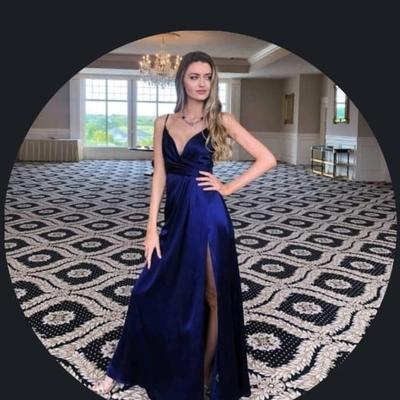
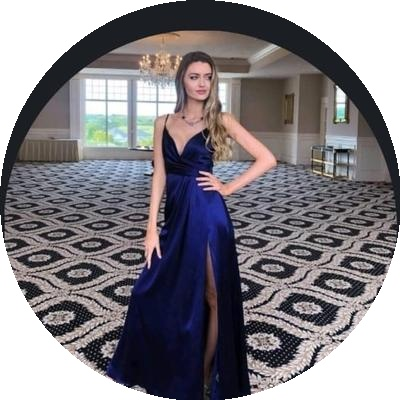
Manifesto page, team moved, fixed circular photos, UX reorganization

diff --git a/manifesto.html b/manifesto.html
@@ -1,0 +1,106 @@
+<!DOCTYPE html>
+<html lang="en" dir="ltr">
+<head>
+<meta charset="UTF-8">
+<meta name="viewport" content="width=device-width, initial-scale=1.0">
+<title data-i18n-title="meta.maniTitle">Manifesto — Surgronic</title>
+<meta name="description" content="Why Surgronic exists: bringing world-class surgical instruments to the surgeons of the Middle East and North Africa.">
+<link rel="icon" href="assets/favicon.svg" type="image/svg+xml">
+<link rel="stylesheet" href="styles.css?v=manif002">
+</head>
+<body>
+<div id="siteHeader"></div>
+
+<main>
+<!-- ============ MANIFESTO HERO ============ -->
+<section class="mani-hero">
+  <div class="wrap">
+    <span class="eyebrow rv" data-i18n="mani.eyebrow">Our manifesto</span>
+    <h1 class="rv" data-i18n="mani.title">Every surgeon deserves the right instrument.</h1>
+    <p class="mani-lede rv" data-i18n="mani.lede">No matter where they operate — Riyadh or Casablanca, Cairo or Istanbul.</p>
+  </div>
+</section>
+
+<!-- ============ MANIFESTO BODY ============ -->
+<section class="mani-body">
+  <div class="wrap mani-narrow">
+    <div class="rv">
+      <h2 data-i18n="mani.s1t">The problem we saw</h2>
+      <p data-i18n="mani.s1d1">Across the Middle East and North Africa, talented surgeons work with one hand tied behind their back. Not for lack of skill — for lack of access. The precision instruments that European and American surgeons take for granted are hard to find, slow to arrive, and priced as if the region doesn't matter.</p>
+      <p data-i18n="mani.s1d2">Procurement departments order from catalogs. Distributors add their margins. And the surgeon — the person whose hands actually hold the instrument — is the last to be consulted and the first to compromise.</p>
+    </div>
+    <div class="rv">
+      <h2 data-i18n="mani.s2t">What we're building</h2>
+      <p data-i18n="mani.s2d1">Surgronic exists to put the surgeon back at the center. We source precision surgical instruments directly from manufacturers — in Turkey, Germany, China — and deliver them to individual surgeons and institutions across MENA, without the distributor markup and without the wait.</p>
+      <p data-i18n="mani.s2d2">Name the instrument. We'll find it. That's not a slogan — it's the entire business model. You tell us what you need, we source it to your specification, inspect it, photograph it, and ship it only after you've approved it.</p>
+    </div>
+    <div class="rv">
+      <h2 data-i18n="mani.s3t">Why the Arab world</h2>
+      <p data-i18n="mani.s3d1">Because this is where we come from, and this is where the gap is widest. MENA surgeons perform world-class procedures with second-tier supply chains. That isn't just inefficient — it's unjust.</p>
+      <p data-i18n="mani.s3d2">We started in Istanbul, at the crossroads of Europe and the Middle East, specifically to serve this region. Our team speaks your language — literally, in Arabic, French, Turkish, and English. Our pricing adapts to your currency. Our WhatsApp line answers within one business day.</p>
+    </div>
+    <div class="rv">
+      <h2 data-i18n="mani.s4t">How we work</h2>
+      <p data-i18n="mani.s4d1">Surgeon first, always. We'd rather lose a sale than recommend the wrong instrument. Every order starts with your specification, not our catalog. Inspection photos before dispatch. Written confirmation before commitment. No middlemen between you and the person sourcing your tools.</p>
+      <p data-i18n="mani.s4d2">We're not a marketplace. We're the partner who picks up the phone.</p>
+    </div>
+  </div>
+</section>
+
+<!-- ============ TEAM (moved from homepage) ============ -->
+<section class="team" id="team">
+  <div class="wrap">
+    <span class="eyebrow rv" data-i18n="team.eyebrow">The team</span>
+    <h2 class="sec-title rv" data-i18n="team.title">People, not a portal.</h2>
+    <p class="sec-sub rv" data-i18n="team.sub">The people you'll actually talk to when you order.</p>
+    <div class="team-grid">
+      <div class="team-card rv">
+        <img src="assets/team-yusuf.jpg" alt="Yusuf Mohamed" loading="lazy">
+        <h3><a href="https://www.linkedin.com/in/yusufmoha/" target="_blank" rel="noopener" class="team-link">Yusuf Mohamed</a></h3>
+        <p class="team-role" data-i18n="team.r1">Co-Founder</p>
+        <p class="team-bio" data-i18n="team.b1">Leads sourcing and supplier partnerships across Turkey, China, and the GCC.</p>
+      </div>
+      <div class="team-card rv">
+        <img src="assets/team-younesse.jpg" alt="Younesse Bouziani" loading="lazy">
+        <h3><a href="https://www.linkedin.com/in/younesse-bouziani-76111157" target="_blank" rel="noopener" class="team-link">Younesse Bouziani</a></h3>
+        <p class="team-role" data-i18n="team.r2">Co-Founder</p>
+        <p class="team-bio" data-i18n="team.b2">Drives strategy and platform development.</p>
+      </div>
+      <div class="team-card rv">
+        <img src="assets/team-dounia.jpg" alt="Dounia Filali" loading="lazy">
+        <h3><a href="https://www.linkedin.com/in/dounia-filali-9a16a3207" target="_blank" rel="noopener" class="team-link">Dounia Filali</a></h3>
+        <p class="team-role" data-i18n="team.r3">Commercial Manager — North Africa & Europe</p>
+        <p class="team-bio" data-i18n="team.b3">Your contact for Morocco, Algeria, Tunisia, and European markets.</p>
+      </div>
+      <div class="team-card rv">
+        <img src="assets/team-khalid.jpg" alt="Khalid Al-Harbi" loading="lazy">
+        <h3><a href="https://www.linkedin.com/in/khalid-al-harbi-20373a313" target="_blank" rel="noopener" class="team-link">Khalid Al-Harbi</a></h3>
+        <p class="team-role" data-i18n="team.r4">Commercial Manager — Middle East & Asia</p>
+        <p class="team-bio" data-i18n="team.b4">Your contact for Saudi Arabia, UAE, Gulf states, and Asian markets.</p>
+      </div>
+    </div>
+  </div>
+</section>
+
+<!-- ============ CTA ============ -->
+<section class="mani-cta">
+  <div class="wrap">
+    <h2 class="rv" data-i18n="mani.ctaT">Work with people who answer.</h2>
+    <p class="rv"><a class="btn btn-primary" href="quote.html" data-i18n="mani.ctaB">Request a quote</a></p>
+  </div>
+</section>
+</main>
+
+<div id="siteFooter"></div>
+<script src="assets/currency.js"></script>
+<script src="app.js?v=manif002"></script>
+<script>
+document.addEventListener("DOMContentLoaded", function(){
+  document.getElementById('siteHeader').innerHTML = SG.siteHeaderHTML('');
+  document.getElementById('siteFooter').innerHTML = SG.footerHTML();
+  SG.applyI18n();
+  if(window.SurCcy){ SurCcy.init(function(){}); }
+});
+</script>
+</body>
+</html>

diff --git a/app.js b/app.js
@@ -357,6 +357,27 @@ en: {
   "feat.errB": "Browse the catalogue",
   "nav.how": "How it works",
   "nav.why": "Why Surgronic",
+  "nav.manifesto": "Manifesto",
+  "meta.maniTitle": "Manifesto \u2014 Surgronic",
+  "mani.eyebrow": "Our manifesto",
+  "mani.title": "Every surgeon deserves the right instrument.",
+  "mani.lede": "No matter where they operate \u2014 Riyadh or Casablanca, Cairo or Istanbul.",
+  "mani.s1t": "The problem we saw",
+  "mani.s1d1": "Across the Middle East and North Africa, talented surgeons work with one hand tied behind their back. Not for lack of skill \u2014 for lack of access.",
+  "mani.s1d2": "Procurement departments order from catalogs. Distributors add their margins. And the surgeon is the last to be consulted and the first to compromise.",
+  "mani.s2t": "What we\u2019re building",
+  "mani.s2d1": "Surgronic exists to put the surgeon back at the center. We source precision instruments directly from manufacturers and deliver across MENA.",
+  "mani.s2d2": "Name the instrument. We\u2019ll find it. That\u2019s not a slogan \u2014 it\u2019s the entire business model.",
+  "mani.s3t": "Why the Arab world",
+  "mani.s3d1": "Because this is where we come from, and this is where the gap is widest. MENA surgeons perform world-class procedures with second-tier supply chains.",
+  "mani.s3d2": "We started in Istanbul to serve this region. Our team speaks your language \u2014 Arabic, French, Turkish, and English.",
+  "mani.s4t": "How we work",
+  "mani.s4d1": "Surgeon first, always. Written confirmation before commitment. No middlemen between you and the person sourcing your tools.",
+  "mani.s4d2": "We\u2019re not a marketplace. We\u2019re the partner who picks up the phone.",
+  "mani.ctaT": "Work with people who answer.",
+  "mani.ctaB": "Request a quote",
+  "home.teamT": "Meet the people behind Surgronic.",
+  "home.teamL": "Read our manifesto",
   "hero.scroll": "Scroll",
   "trust.title2": "Procurement, engineered.",
   "strip.1b": "1 business day",
@@ -722,6 +743,7 @@ fr: {
   "feat.errB": "Parcourir le catalogue",
   "nav.how": "Comment ça marche",
   "nav.why": "Pourquoi Surgronic",
+  "nav.manifesto": "Manifeste",
   "hero.scroll": "Défiler",
   "trust.title2": "L’approvisionnement, conçu comme une ingénierie.",
   "strip.1b": "1 jour ouvré",
@@ -1033,6 +1055,7 @@ ar: {
   "feat.errB": "تصفح الكتالوج",
   "nav.how": "كيف نعمل",
   "nav.why": "لماذا سورجرونيك",
+  "nav.manifesto": "البيان",
   "hero.scroll": "مرر",
   "trust.title2": "التوريد، مصمم كهندسة.",
   "strip.1b": "يوم عمل واحد",
@@ -1344,6 +1367,7 @@ tr: {
   "feat.errB": "Kataloğa göz atın",
   "nav.how": "Nasıl çalışır",
   "nav.why": "Neden Surgronic",
+  "nav.manifesto": "Manifesto",
   "hero.scroll": "Kaydırın",
   "trust.title2": "Satın alma, mühendislikle.",
   "strip.1b": "1 iş günü",
@@ -1622,6 +1646,7 @@ function siteHeaderHTML(active){
       '<a href="catalogue.html"'+(active==="catalog"?' class="active"':'')+' data-i18n="nav.catalog">'+t("nav.catalog")+'</a>'+
       '<a href="index.html#how" data-i18n="nav.how">'+t("nav.how")+'</a>'+
       '<a href="index.html#why" data-i18n="nav.why">'+t("nav.why")+'</a>'+
+      '<a href="manifesto.html" data-i18n="nav.manifesto">'+t("nav.manifesto")+'</a>'+
     '</nav>'+
     '<div class="header-actions">'+
       '<div class="lang-switch" role="group" aria-label="Language">'+
@@ -1642,6 +1667,7 @@ function siteHeaderHTML(active){
     '<a href="catalogue.html" data-i18n="nav.catalog">'+t("nav.catalog")+'</a>'+
     '<a href="index.html#how" data-i18n="nav.how">'+t("nav.how")+'</a>'+
     '<a href="index.html#why" data-i18n="nav.why">'+t("nav.why")+'</a>'+
+    '<a href="manifesto.html" data-i18n="nav.manifesto">'+t("nav.manifesto")+'</a>'+
     '<a href="quote.html" data-i18n="nav.quote">'+t("nav.quote")+'</a>'+
     '<div class="lang-switch mobile-lang" role="group" aria-label="Language">'+
       '<button data-lang="en"'+(lang==="en"?' class="on"':'')+'>EN</button>'+
@@ -1668,6 +1694,7 @@ function footerHTML(){
       '<div><h4 data-i18n="footer.company">'+t("footer.company")+'</h4><ul>'+
         '<li><a href="index.html#how" data-i18n="footer.how">'+t("footer.how")+'</a></li>'+
         '<li><a href="index.html#specialties" data-i18n="footer.specialties">'+t("footer.specialties")+'</a></li>'+
+        '<li><a href="manifesto.html" data-i18n="nav.manifesto">'+t("nav.manifesto")+'</a></li>'+
         '<li><a href="index.html#trust" data-i18n="footer.why">'+t("footer.why")+'</a></li>'+
       '</ul></div>'+
       '<div><h4 data-i18n="footer.contact">'+t("footer.contact")+'</h4><ul>'+

diff --git a/index.html b/index.html
@@ -12,11 +12,11 @@
 <link rel="preconnect" href="https://fonts.googleapis.com">
 <link rel="preconnect" href="https://fonts.gstatic.com" crossorigin>
 <link href="https://fonts.googleapis.com/css2?family=Inter:wght@400;500;600;700&family=Manrope:wght@600;700;800&display=swap" rel="stylesheet">
-<link rel="stylesheet" href="styles.css?v=team003">
+<link rel="stylesheet" href="styles.css?v=manif002">
 </head>
 <body>
 <script src="assets/currency.js"></script>
-<script src="app.js?v=promise001"></script>
+<script src="app.js?v=manif002"></script>
 <main>
 <!-- ============ HERO ============ -->
 <section class="hero">
@@ -231,38 +231,10 @@
   </div>
 </section>
 
-<!-- ============ TEAM ============ -->
-<section class="team" id="team">
+<!-- ============ TEAM TEASER ============ -->
+<section class="team-teaser">
   <div class="wrap">
-    <span class="eyebrow rv" data-i18n="team.eyebrow">The team</span>
-    <h2 class="sec-title rv" data-i18n="team.title">People, not a portal.</h2>
-    <p class="sec-sub rv" data-i18n="team.sub">The people you'll actually talk to when you order.</p>
-    <div class="team-grid">
-      <div class="team-card rv">
-        <img src="assets/team-yusuf.jpg" alt="Yusuf Mohamed" loading="lazy">
-        <h3><a href="https://www.linkedin.com/in/yusufmoha/" target="_blank" rel="noopener" class="team-link">Yusuf Mohamed</a></h3>
-        <p class="team-role" data-i18n="team.r1">Co-Founder</p>
-        <p class="team-bio" data-i18n="team.b1">Leads sourcing and supplier partnerships across Turkey, China, and the GCC.</p>
-      </div>
-      <div class="team-card rv">
-        <img src="assets/team-younesse.jpg" alt="Younesse Bouziani" loading="lazy">
-        <h3><a href="https://www.linkedin.com/in/younesse-bouziani-76111157" target="_blank" rel="noopener" class="team-link">Younesse Bouziani</a></h3>
-        <p class="team-role" data-i18n="team.r2">Co-Founder</p>
-        <p class="team-bio" data-i18n="team.b2">Drives strategy and platform development.</p>
-      </div>
-      <div class="team-card rv">
-        <img src="assets/team-dounia.jpg" alt="Dounia Filali" loading="lazy">
-        <h3><a href="https://www.linkedin.com/in/dounia-filali-9a16a3207" target="_blank" rel="noopener" class="team-link">Dounia Filali</a></h3>
-        <p class="team-role" data-i18n="team.r3">Commercial Manager — North Africa & Europe</p>
-        <p class="team-bio" data-i18n="team.b3">Your contact for Morocco, Algeria, Tunisia, and European markets.</p>
-      </div>
-      <div class="team-card rv">
-        <img src="assets/team-khalid.jpg" alt="Khalid Al-Harbi" loading="lazy">
-        <h3><a href="https://www.linkedin.com/in/khalid-al-harbi-20373a313" target="_blank" rel="noopener" class="team-link">Khalid Al-Harbi</a></h3>
-        <p class="team-role" data-i18n="team.r4">Commercial Manager — Middle East & Asia</p>
-        <p class="team-bio" data-i18n="team.b4">Your contact for Saudi Arabia, UAE, Gulf states, and Asian markets.</p>
-      </div>
-    </div>
+    <p class="rv"><span data-i18n="home.teamT">Meet the people behind Surgronic.</span> <a href="manifesto.html" data-i18n="home.teamL">Read our manifesto</a></p>
   </div>
 </section>
 

diff --git a/styles.css b/styles.css
@@ -410,6 +410,11 @@ section{padding:88px 0}
 @media(max-width:900px){.team-grid{grid-template-columns:repeat(2,1fr)}}
 @media(max-width:520px){.team-grid{grid-template-columns:1fr}}
 
+/* ---------- Team teaser ---------- */
+.team-teaser{background:var(--navy-900);padding:28px 0;text-align:center}
+.team-teaser p{color:rgba(255,255,255,.85);margin:0;font-size:1.02rem}
+.team-teaser a{color:var(--blue-400);font-weight:700}
+
 /* ---------- Custom solutions ---------- */
 .custom-sol{padding:72px 0;background:#fff}
 .cust-grid{display:grid;grid-template-columns:repeat(3,1fr);gap:22px;margin-top:34px}
@@ -442,6 +447,18 @@ section{padding:88px 0}
 .testi-name{color:var(--blue-400);font-weight:700;font-size:.92rem;margin:0}
 .testi-role{color:rgba(255,255,255,.55);font-size:.82rem;margin:4px 0 0}
 @media(max-width:768px){.testi-grid{grid-template-columns:1fr}}
+
+/* ---------- Manifesto ---------- */
+.mani-hero{background:var(--navy-950);color:#fff;padding:88px 0 64px;text-align:center}
+.mani-hero h1{font-family:var(--font-display);font-size:clamp(2rem,4.5vw,3.2rem);font-weight:800;letter-spacing:-.02em;margin:16px 0;max-width:20ch;margin-left:auto;margin-right:auto}
+.mani-lede{color:rgba(255,255,255,.7);font-size:1.15rem;max-width:36ch;margin:0 auto}
+.mani-body{padding:64px 0;background:#fff}
+.mani-narrow{max-width:720px}
+.mani-body h2{font-family:var(--font-display);font-size:1.4rem;margin:40px 0 14px;color:var(--ink-900)}
+.mani-body h2:first-child{margin-top:0}
+.mani-body p{color:var(--ink-600);line-height:1.75;font-size:1.02rem;margin:0 0 16px}
+.mani-cta{background:var(--mist-50);padding:64px 0;text-align:center}
+.mani-cta h2{font-family:var(--font-display);font-size:1.6rem;margin:0 0 24px;color:var(--ink-900)}
 
 /* ---------- Why Surgronic (dark) ---------- */
 .why{background:var(--navy-950);color:var(--navy-text);position:relative;overflow:hidden}

diff --git a/stand-with.html b/stand-with.html
@@ -9,7 +9,7 @@
 <link rel="preconnect" href="https://fonts.googleapis.com">
 <link rel="preconnect" href="https://fonts.gstatic.com" crossorigin>
 <link href="https://fonts.googleapis.com/css2?family=Inter:wght@400;500;600;700&family=Manrope:wght@600;700;800&display=swap" rel="stylesheet">
-<link rel="stylesheet" href="styles.css?v=team003">
+<link rel="stylesheet" href="styles.css?v=manif002">
 <style>
 .stand-hero{background:var(--navy-950);color:#fff;padding:88px 0 72px;text-align:center}
 .stand-hero h1{font-family:var(--font-display);font-size:clamp(2rem,4.5vw,3.2rem);font-weight:800;margin:0 0 20px;letter-spacing:-.02em}
@@ -27,7 +27,7 @@
 </head>
 <body>
 <script src="assets/currency.js"></script>
-<script src="app.js?v=trust001"></script>
+<script src="app.js?v=manif002"></script>
 <main>
 <section class="stand-hero">
   <div class="container">

diff --git a/product.html b/product.html
@@ -9,11 +9,11 @@
 <link rel="preconnect" href="https://fonts.googleapis.com">
 <link rel="preconnect" href="https://fonts.gstatic.com" crossorigin>
 <link href="https://fonts.googleapis.com/css2?family=Inter:wght@400;500;600;700&family=Manrope:wght@600;700;800&display=swap" rel="stylesheet">
-<link rel="stylesheet" href="styles.css?v=team003">
+<link rel="stylesheet" href="styles.css?v=manif002">
 </head>
 <body>
 <script src="assets/currency.js"></script>
-<script src="app.js?v=trust001"></script>
+<script src="app.js?v=manif002"></script>
 
 <div class="container">
   <div class="breadcrumb"><a href="index.html" data-i18n="pd.breadcrumb">Home</a> → <a href="catalogue.html" data-i18n="pd.catalog">Catalog</a> → <span id="crumbSku">Product</span></div>

diff --git a/quote.html b/quote.html
@@ -9,11 +9,11 @@
 <link rel="preconnect" href="https://fonts.googleapis.com">
 <link rel="preconnect" href="https://fonts.gstatic.com" crossorigin>
 <link href="https://fonts.googleapis.com/css2?family=Inter:wght@400;500;600;700&family=Manrope:wght@600;700;800&display=swap" rel="stylesheet">
-<link rel="stylesheet" href="styles.css?v=team003">
+<link rel="stylesheet" href="styles.css?v=manif002">
 </head>
 <body>
 <script src="assets/currency.js"></script>
-<script src="app.js?v=trust001"></script>
+<script src="app.js?v=manif002"></script>
 
 <div class="container" style="padding-bottom:96px">
   <div class="breadcrumb"><a href="index.html" data-i18n="pd.breadcrumb">Home</a> &rarr; <span data-i18n="q.crumb">Request a Quote</span></div>

diff --git a/catalogue.html b/catalogue.html
@@ -9,11 +9,11 @@
 <link rel="preconnect" href="https://fonts.googleapis.com">
 <link rel="preconnect" href="https://fonts.gstatic.com" crossorigin>
 <link href="https://fonts.googleapis.com/css2?family=Inter:wght@400;500;600;700&family=Manrope:wght@600;700;800&display=swap" rel="stylesheet">
-<link rel="stylesheet" href="styles.css?v=team003">
+<link rel="stylesheet" href="styles.css?v=manif002">
 </head>
 <body>
 <script src="assets/currency.js"></script>
-<script src="app.js?v=trust001"></script>
+<script src="app.js?v=manif002"></script>
 
 <div class="catalog-hero">
   <div class="container">
